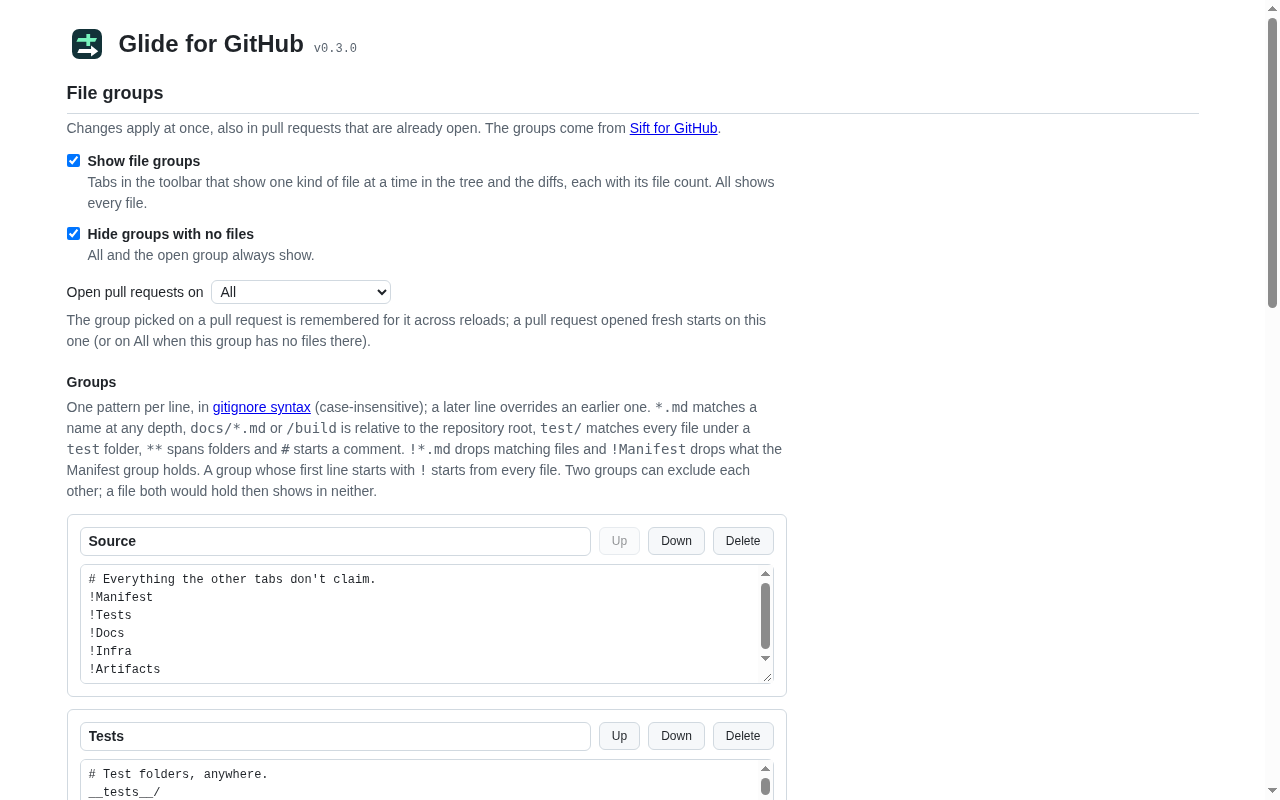
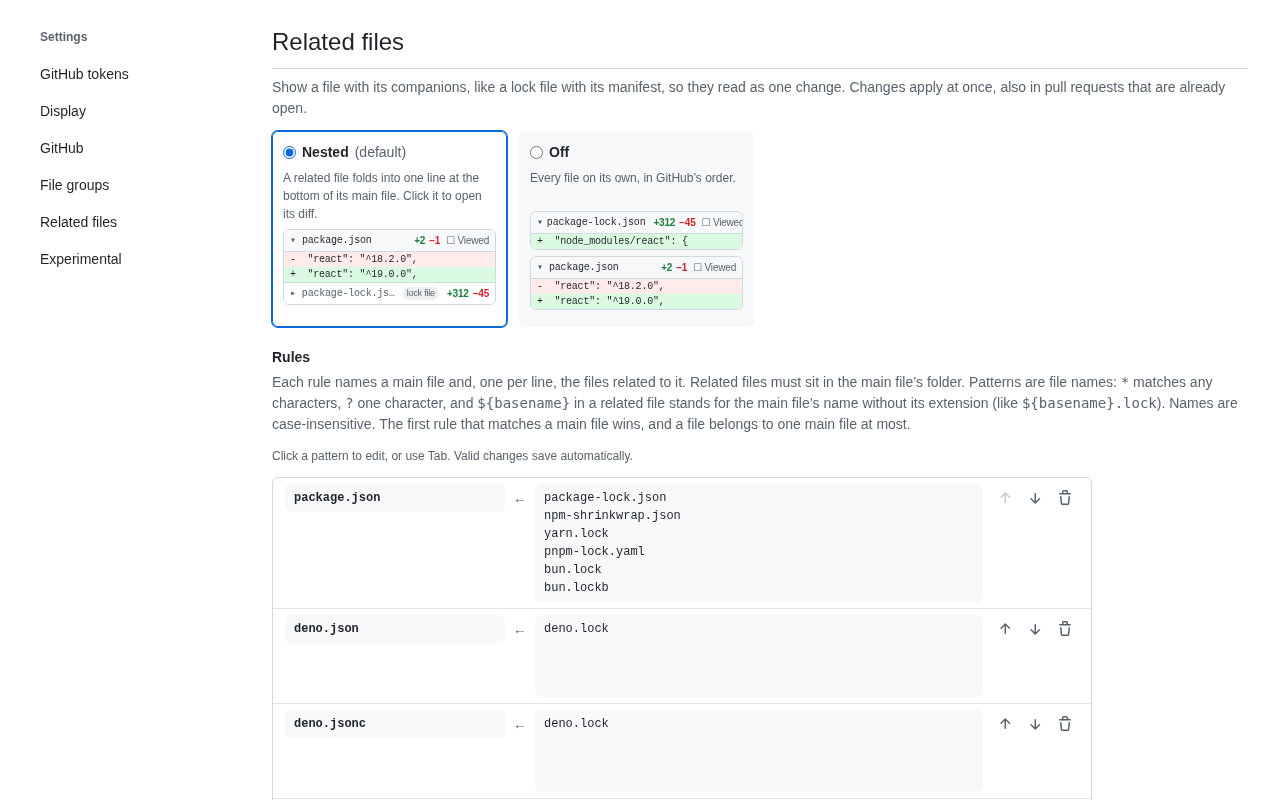
release: refresh screenshots and listing for 0.4.0 (#12)

diff --git a/store/promo/tile.html b/store/promo/tile.html
@@ -29,7 +29,7 @@
   <img src="../../icons/icon.svg" alt="">
   <div>
     <h1>Glide for GitHub</h1>
-    <p>Fast diffs, a file tree and full review tools, right next to Files changed.</p>
+    <p>Fast diffs, file groups and related files. Review right on GitHub.</p>
     <div class="tabs"><span>Conversation</span><span>Files changed</span><span class="on">Glide</span></div>
     <div class="credit">Powered by Pierre</div>
   </div>

diff --git a/store/README.md b/store/README.md
@@ -17,36 +17,38 @@ Everything needed to list and publish Glide for GitHub. Icons and promo tiles ar
 | `promo/marquee.png` | Marquee promo tile | 1400x560 |
 | `promo/social-preview.png` | GitHub repo social preview (Settings > Social preview) | 1280x640 |
 
-Screenshots are taken by `scripts/store-screenshots.mjs` (headed, on the logged-in e2e profile) from a public PR
-(react/react#37778), with avatars hidden; the script refuses to write one if the signed-in login or a token-looking
-string is visible. Every shot uses the default settings and file groups: the script sets the profile's own aside and
-restores them afterwards. The inline thread screenshot shows a comment composer with a draft typed in and then
-cancelled: nothing was posted. The file groups screenshot has the Tests group open. The options screenshot shows the
-page's header and its File groups section; the sections above it are left out (the Display ones are in the Display
-menu screenshot, and the saved-token list names the profile's token owners).
+Screenshots are taken by `scripts/store-screenshots.mjs` from a public PR (react/react#37778), with avatars hidden.
+The script refuses to write one if the signed-in login or a token-looking string is visible. It uses a disposable
+copy of the authorized e2e profile with Chrome sync disabled, resets settings only in that copy, and removes the
+copy afterwards. The PR screenshots use the default file groups with the tree expanded and positioned on the right.
+The inline thread screenshot shows a comment composer with a draft typed in and then cancelled: nothing was posted.
+The file groups screenshot has the Tests group open. The options screenshot uses the page's Related files sidebar
+link to show the Nested and Off choices and rule editor, with saved token owners outside the viewport.
 
 ## Listing
 
 **Name:** Glide for GitHub
 
 **Summary** (132 characters max):
-Review GitHub pull requests with fast diffs and a file tree, next to Files changed. Powered by Pierre.
+Review GitHub pull requests with diffs, a file tree, file groups and related files. Powered by Pierre.
 
 **Category:** Developer Tools. **Language:** English.
 
 **Description:**
 
-> Glide adds a Glide tab next to Files changed on GitHub pull requests. It shows the same pull request with a fast,
+> Glide adds a Glide tab next to Files changed on GitHub pull requests. It shows the same pull request with a
 > virtualized diff viewer and a file tree, powered by Pierre (@pierre/diffs and @pierre/trees), and keeps the GitHub
 > review features you use.
 >
-> - Every changed file in one smooth diff view, split or unified, with a file tree beside it. Big pull requests stay
->   responsive.
+> - Every changed file in one diff view, split or unified, with a file tree beside it. The diffs scroll with
+>   GitHub's page.
 > - Looks like GitHub by default: GitHub's colors, fonts, file boxes and "N unmodified lines" rows, so it feels
 >   familiar from the first click. Pierre's other styles are one setting away.
 > - File groups: tabs in the toolbar show one kind of file at a time (Source, Tests, Docs, Infra, Manifest,
 >   Artifacts), each with its file count. Edit the groups with gitignore-style patterns, or import them from Sift for
 >   GitHub.
+> - Related files: lock files fold under their manifests, and serverless parts under serverless.yml. Open a related
+>   diff to read and comment; one Viewed checkbox covers the files together. Edit the rules or turn grouping off.
 > - Comment on a line, a range of lines or a whole file. Write and Preview, and an Insert suggestion button.
 > - Threads inline: reply, edit, delete your own comments, resolve and unresolve, react.
 > - Pending review: submit as Comment, Approve or Request changes, or discard it.
@@ -55,6 +57,8 @@ Review GitHub pull requests with fast diffs and a file tree, next to Files chang
 > - Commit range picker and hide whitespace.
 > - Display options (layout, themes, line wrapping, tree density and more) in the viewer and on the options page.
 > - Optionally, Glide replaces GitHub's Files changed tab and opens wherever that page would.
+> - An optional merged toolbar shows the pull request title in Glide instead of GitHub's separate sticky header.
+> - A Refresh button appears when someone pushes to the pull request. Refresh keeps your drafts and open comment boxes.
 >
 > Reading a pull request needs no setup. To post comments, replies, reviews or reactions, Glide asks for a GitHub
 > token (fine-grained or classic), which stays on your device and is only ever sent to api.github.com.
@@ -68,12 +72,12 @@ Review GitHub pull requests with fast diffs and a file tree, next to Files chang
 
 ## Privacy tab
 
-**Single purpose:** Show a GitHub pull request's changes in a faster diff and file-tree viewer, with GitHub's review
+**Single purpose:** Show a GitHub pull request's changes in a virtualized diff and file-tree viewer, with GitHub's review
 features, in a tab next to Files changed.
 
 **Permission justifications:**
-- `storage`: saves the user's settings and file groups (`chrome.storage.sync`, one item per file group) and, if the
-  user adds one, their GitHub token and the username it belongs to (`chrome.storage.local`, never synced).
+- `storage`: saves the user's settings, related-files rules and file groups (`chrome.storage.sync`, one item per file
+  group) and, if the user adds one, their GitHub token and the username it belongs to (`chrome.storage.local`, never synced).
 - Host permission `https://github.com/*`: content scripts on pull request pages add the Glide tab and mount the
   viewer, and the extension makes same-origin requests with the user's own GitHub session to read the pull request's
   diffs and threads and to apply suggestions, resolve threads and mark files viewed. It also posts the draft text of
@@ -81,7 +85,8 @@ features, in a tab next to Files changed.
   which redirects to `raw.githubusercontent.com` (GitHub's file-content host; reached by redirect, not a separate host
   permission). It runs on no other site.
 - Host permission `https://api.github.com/*`: sends the user's token to GitHub's API to post comments, replies,
-  reviews, edits and reactions, and to resolve threads and mark files viewed. Nothing else is sent there.
+  reviews, edits and reactions, and to resolve threads and mark files viewed. Requests go directly from the extension's
+  isolated content script or options page; the token is not passed through GitHub's page scripts.
 
 **Remote code:** No. All code ships in the package.
 
@@ -99,10 +104,10 @@ outside the approved use cases, no use unrelated to the single purpose, no use f
 The store page is https://chromewebstore.google.com/detail/dhbdoblfgppilljakljokgbpkjeiomka (item ID
 `dhbdoblfgppilljakljokgbpkjeiomka`). Version 0.2.0 was uploaded by hand from its GitHub release on 2026-10-19 SGT (the
 store API can only update an item that exists), with the listing and privacy answers above. The five `CWS_*` secrets
-were set in the `chrome-web-store` environment right after, and CI has submitted every tag since (v0.2.1, v0.3.0).
+were set in the `chrome-web-store` environment right after for later releases.
 
 - [x] Link the store page from the README's Install section.
-- [ ] Upload `promo/social-preview.png` as the repository's social preview (Settings > Social preview).
+- [x] Upload `promo/social-preview.png` as the repository's social preview (Settings > Social preview).
 
 ## Automatic publishing
 
@@ -132,6 +137,10 @@ reviewed in the repository. Update them deliberately (Dependabot can propose bot
 If the same publisher account already publishes another extension from CI, reuse its client ID, client secret, refresh
 token and publisher ID, and add only the new `CWS_EXTENSION_ID`. Treat all five as sensitive: anyone holding the client
 secret or refresh token can publish a new version of the extension.
+
+Listing text and screenshots are updated separately in the Chrome Web Store developer dashboard; the publish job
+only uploads the extension package and submits it for review. Refresh the listing from this document and the assets
+above when a release changes what users see.
 
 Each release: bump `version` in `manifest.json` (and `package.json` and `package-lock.json`), add the version's section
 at the top of `CHANGELOG.md` (`## X.Y.Z (YYYY-MM-DD)`; it becomes the GitHub release's notes, and the unit tests fail

diff --git a/README.md b/README.md
@@ -3,7 +3,7 @@
 <h1 align="center">Glide for GitHub</h1>
 
 A Chrome extension (Manifest V3) that adds a **Glide** tab next to **Files changed** on GitHub pull requests. The tab
-shows the same pull request with a fast diff viewer and file tree, powered by
+shows the same pull request with a virtualized diff viewer and file tree, powered by
 [Pierre](https://diffs.com) ([@pierre/diffs](https://www.npmjs.com/package/@pierre/diffs),
 [@pierre/trees](https://www.npmjs.com/package/@pierre/trees)), and keeps the GitHub
 review features: comments, suggestions, resolving threads, viewed files and review submission.
@@ -12,8 +12,8 @@ review features: comments, suggestions, resolving threads, viewed files and revi
 
 ## What it does
 
-- Renders every changed file in one fast, virtualized diff view (split or unified), with a file tree beside it. The
-  Glide tab shows the changed-file count, like Files changed.
+- Renders every changed file in one virtualized diff view (split or unified), with a file tree beside it. The
+  diffs scroll with GitHub's page, and the Glide tab shows the changed-file count, like Files changed.
 - A file tree button in the toolbar, like GitHub's, hides or shows the tree. It sits on the tree's side: first in the
   toolbar, or last when the tree is on the right.
 - Comment on a line, a range of lines (drag over the gutter) or a whole file. The composer has a Write / Preview toggle
@@ -41,10 +41,8 @@ review features: comments, suggestions, resolving threads, viewed files and revi
 - The options page shows Glide's icon and the installed version, which links to that version's release notes.
 - Replace Files changed with Glide, off by default, on the options page: GitHub's Files changed tab is hidden, Glide
   takes its place, and links to that page open Glide; the Display menu still links to GitHub's page.
-- Experimental, off by default, on the options page only: scroll the diffs with GitHub's page (its header scrolls
-  away and the page ends with the diffs, like GitHub's own Files changed page), and fold GitHub's sticky pull request
-  header into Glide's toolbar, with the stack button of a stacked pull request (its menu opens the other pull requests
-  of the stack in Glide).
+- Experimental, off by default, on the options page only: fold GitHub's sticky pull request header into Glide's
+  toolbar, with the stack button of a stacked pull request. Its menu opens the other pull requests of the stack in Glide.
 
 ## File groups
 
@@ -85,13 +83,9 @@ two.
   file" tag for lock files, its counts and its comment count. Click the line to open its diff, where comments,
   suggestions and expanders work as in any file. One Viewed covers the main file and its related files; it marks each
   of them viewed on GitHub, and shows checked only when all are viewed. The viewed counter still counts files.
-- **One box.** The files share one box under a "package.json + 1 related" header with their summed counts, each file
-  with its own small header and full diff.
-- **Group rail.** The files keep their own boxes under a "package.json · 2 files" line with a "Viewed all" checkbox, tied
-  by a rail.
 - **Off.** Every file on its own, in GitHub's order.
 
-Pick the look in the Display menu or on the options page, which shows a preview of each. In the file tree a related
+Choose Nested or Off in the Display menu or on the options page, which previews both choices. In the file tree a related
 file sits right after its main file, indented and dimmed; clicking it opens it. With file groups, files are related
 only when both are in the open group; otherwise each shows on its own, as does a related file whose main file the pull
 request doesn't change.
@@ -148,8 +142,8 @@ extension icon, then **Options**).
   used to expand unchanged context). The Preview tab of the comment box posts your draft text to github.com's `/preview`
   so GitHub can render it. No third parties; it has no server of its own, no analytics and loads no remote code.
 - Your token is stored in `chrome.storage.local`, on this device only, with the GitHub username it belongs to. It is
-  sent only to `api.github.com`, only from the extension's own pages, never to the github.com page, and the options
-  page never displays it.
+  sent only to `api.github.com`, directly from the extension's isolated content script or its options page. API
+  requests do not pass the token through GitHub's page scripts, and the options page never displays saved tokens.
 - Settings, file groups and related-files rules are stored in `chrome.storage.sync` (each file group is its own item),
   so Chrome can sync them between your signed-in browsers. They contain no tokens and no pull request data.
 - The Sift import only parses the text you paste; Glide reads nothing from Sift. The full list of what Glide stores,

diff --git a/CHANGELOG.md b/CHANGELOG.md
@@ -2,40 +2,36 @@
 
 Newest first. Each release's GitHub notes are its section here (`scripts/release-notes.sh`).
 
-## Unreleased
+## 0.4.0 (2026-10-20)
 
 ### New
 
-- **Related files.** A lock file shows with its manifest, and serverless parts with serverless.yml, so they read as one
-  change. By default each related file folds into one line at the bottom of its main file's box, with a "lock file" tag,
-  its counts and its comments; click it to open its diff. One Viewed covers the main file and its related files, and
-  marks each of them viewed on GitHub. In the tree, a related file sits right under its main file, indented. Pick
-  another look in the Display menu or on the options page (one box, a group rail, or off), and edit the rules there:
-  a main file pattern and its related files, in the same folder, with `${basename}` for the main file's name.
+- **Related files.** Lock files fold under their manifests, and serverless parts under `serverless.yml`. Open a related
+  file to read its diff, comment or suggest changes. One Viewed checkbox marks the main file and its related files
+  on GitHub. Related files also sit under their main file in the tree. Choose Nested or Off in Display or on the
+  options page, where you can edit the rules and try paths against them.
 
 ### Changed
 
-- The options page follows GitHub’s settings layout, with section navigation, consistent controls and responsive spacing.
-  It also has far fewer boxes. File groups and related-files rules share one outer border with horizontal dividers.
-  Names and patterns have subtly shaded fields and a clear focus outline,
-  instead of a border around every field. Up, Down and Delete are small arrow and trash icons that name what they act
-  on. Every textarea grows to fit its content, with at least four rows, even when unfocused.
-  Only the chosen related-files style has a frame.
+- **Page scrolling is now standard.** Diffs scroll directly with GitHub's page. The old "Scroll with the page" switch
+  is gone; merging GitHub's sticky header into Glide's toolbar remains optional and off by default.
+- The options page has section navigation and responsive spacing. File groups and related-files rules use compact
+  editable rows, and textareas grow to fit their content, with at least four rows.
 
 ### Fixes
 
-- A push to the pull request now shows GitHub's Refresh button in the toolbar within seconds, as on GitHub's own Files
-  changed page. The old notice at the bottom of the viewer was below the screen with "Scroll with the page" on, and
-  showed up to a minute late. Refresh still keeps your drafts and open comment boxes.
-- With "Scroll with the page" on, messages at the bottom of the viewer (errors, for one) are on screen before you
-  scroll, too.
-- Split view no longer draws a white strip between the old and new sides: like GitHub's, the old side's code meets
-  the new side's line numbers directly, through changed lines, empty sides and expander rows.
-- No more "ResizeObserver loop completed with undelivered notifications" in Glide's errors on chrome://extensions:
-  Chrome's harmless resize report is marked handled.
-- File boxes keep their right border when the page is zoomed, for one to 90% on a Retina Mac. A box that reached the
-  edge of the diff list or of Glide's frame lost its border there. The boxes still line up with the toolbar and with
-  GitHub's page above.
+- GitHub's Refresh button appears in the toolbar within seconds of a push to the pull request. Refresh keeps drafts
+  and open comment boxes.
+- Newer settings and related-files rules survive a slower initial storage read. File-group and related-rule editors
+  also preserve edits made while a save is in progress.
+- Rapid Viewed toggles run in order and restore the last confirmed state if a request fails.
+- Related-file rules handle malformed patterns safely and preserve literal characters in `${basename}`.
+- Named Jest configuration files belong to Manifest in the default file groups.
+- File-tree search, chevrons and viewed checkmarks line up with the rows. A tree on the right aligns with the header edge.
+- Nested related files sit directly under their main file without an extra gap.
+- Split view no longer draws a white strip between the old and new sides.
+- File boxes retain their right border when the page is zoomed, including 90% on a Retina display.
+- Chrome's harmless "ResizeObserver loop completed with undelivered notifications" report no longer appears as a Glide error.
 
 ## 0.3.1 (2026-10-19)
 

diff --git a/store/PRIVACY.md b/store/PRIVACY.md
@@ -19,8 +19,9 @@ github.com, which redirects to `raw.githubusercontent.com`, GitHub's file-conten
   rules (file name patterns), in one item. They contain no tokens and no pull request data.
 - In the browser tab's `sessionStorage`, discarded when the tab closes: unsent comment drafts, a pending suggestion
   batch and a random key that stops a retried suggestion commit from being applied twice, the file group you picked on
-  each pull request (so a reload reopens it), and, with "Scroll with the page" on, your place in the diff list (a file
-  path and an offset) so a reload returns there.
+  each pull request (so a reload reopens it), and your scroll position (a file path and an offset, or a page offset)
+  so a reload returns there. This session storage belongs to the github.com tab and is accessible to its page scripts.
+  Tokens are never stored there.
 
 **Importing from Sift for GitHub.** The options page can import file groups from Sift for GitHub. It only parses the
 text you paste into it; Glide reads nothing from Sift, its storage or its pages.
@@ -30,8 +31,9 @@ text you paste into it; Glide reads nothing from Sift, its storage or its pages.
   (which GitHub serves through `raw.githubusercontent.com` by redirect). This includes GitHub's
   private same-session endpoints, which Glide uses to apply suggestions and, when you have no token or GitHub refuses
   it, to resolve and unresolve threads and to mark files viewed.
-- `api.github.com`: your token is sent here, and only here, from the extension's own pages, never to the github.com
-  page. It is used to post comments, replies, reviews, edits and reactions, and to resolve threads and mark files viewed.
+- `api.github.com`: your token is sent here, and only here, directly from the extension's isolated content script or
+  its options page. API requests do not pass the token through GitHub's page scripts. It is used to post comments,
+  replies, reviews, edits and reactions, and to resolve threads and mark files viewed.
 
 - Your draft comment text, when you use the Write / Preview toggle: the Preview tab posts the draft to `github.com`
   (its `/preview` endpoint) so GitHub renders it. This is not a comment; nothing is posted until you submit one.
